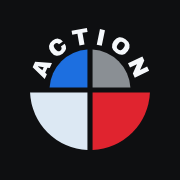
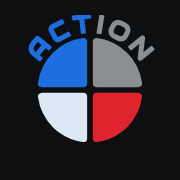
Rundmärket: fyra lika fält med rundade hörn, ACT blått och ION grått
Claude-Session: https://claude.ai/code/session_01STPYKS9MGx6UKJyGrrjUNw

Changed region(s): [[0.1389, 0.0833, 0.8611, 0.8333]]

diff --git a/src/components/brand-paths.ts b/src/components/brand-paths.ts
@@ -1,5 +1,7 @@
 // Genererad av scripts/staging/action_arc.py — ordet ACTION som banor längs en övre båge.
-// RING: runt rundmärkets färgcirkel. BADGE: inuti ett sektionsmärke.
-export const ACTION_ARC_RING = "M23.17 35.32 21.62 35.11 20.09 38.49 21.26 39.51 19.82 42.68 11.77 34.77 13.41 31.17 24.66 32.04ZM18.22 36.86 19.17 34.77 15.28 34.22 15.25 34.27Z M31.91 17.59 29.32 19.56Q28.76 18.83 28.05 18.69Q27.34 18.56 26.63 19.1Q25.81 19.73 25.81 20.54Q25.82 21.35 26.52 22.27L27.12 23.05Q27.81 23.95 28.6 24.18Q29.38 24.41 30.17 23.8Q30.96 23.2 31.05 22.49Q31.15 21.77 30.59 21.04L33.08 19.13Q34.4 20.86 34.05 22.58Q33.69 24.31 31.75 25.79Q29.6 27.44 27.65 27.18Q25.7 26.93 24.05 24.77Q22.41 22.62 22.67 20.67Q22.94 18.72 25.09 17.07Q26.97 15.64 28.77 15.75Q30.58 15.85 31.91 17.59Z M44.96 11.91 46.34 19.67 42.98 20.27 41.61 12.5 38.18 13.11 37.71 10.44 47.9 8.63 48.38 11.3Z M54.5 19.79 56.65 9.41 59.98 10.09 57.84 20.48Z M75.22 23.95Q73.68 26.15 71.65 26.44Q69.63 26.73 67.38 25.16Q65.13 23.59 64.71 21.59Q64.3 19.6 65.84 17.39Q67.39 15.18 69.41 14.89Q71.42 14.6 73.67 16.17Q75.92 17.75 76.34 19.75Q76.76 21.76 75.22 23.95ZM68.98 18.98 68.41 19.79Q67.77 20.71 67.85 21.58Q67.94 22.45 68.84 23.08Q69.73 23.71 70.59 23.49Q71.44 23.28 72.08 22.36L72.65 21.55Q73.3 20.63 73.2 19.76Q73.11 18.88 72.21 18.26Q71.32 17.63 70.47 17.85Q69.62 18.06 68.98 18.98Z M78.57 39.07 81.32 32.84 76.67 35.04 75.33 32.21 84.92 27.69 86.19 30.38 83.36 36.63 88.09 34.4 89.42 37.23 79.84 41.76Z";
+// RING_LEFT/RIGHT: ACT och ION runt rundmärket. BADGE: inuti ett sektionsmärke.
+export const ACTION_ARC_RING_LEFT = "M23.77 21.38 22.45 23.01 20.24 21.22 15.58 26.96 17.79 28.75 16.46 30.39 11.96 26.73Q10.97 25.93 10.42 24.92Q9.86 23.91 9.76 22.82Q9.65 21.73 9.99 20.64Q10.32 19.55 11.11 18.57L14.1 14.89Q14.24 14.72 14.42 14.62Q14.61 14.52 14.81 14.5Q15.02 14.48 15.22 14.54Q15.42 14.6 15.59 14.74ZM13.94 25.63 18.6 19.89 15.07 17.03 12.74 19.9Q12.68 19.97 12.51 20.23Q12.33 20.49 12.16 20.88Q11.99 21.27 11.89 21.77Q11.79 22.27 11.87 22.83Q11.95 23.38 12.27 23.96Q12.6 24.54 13.28 25.1Z M36.69 13.57 30 17.15Q29.74 17.29 29.41 17.38Q29.08 17.48 28.73 17.51Q28.37 17.53 28 17.47Q27.62 17.41 27.27 17.23Q26.91 17.05 26.58 16.73Q26.26 16.41 26 15.94L23.32 10.91Q23.18 10.65 23.09 10.33Q22.99 10 22.96 9.64Q22.94 9.28 23 8.91Q23.07 8.53 23.25 8.18Q23.43 7.82 23.74 7.5Q24.06 7.17 24.53 6.92L31.23 3.34L32.22 5.2L25.52 8.77Q25.16 8.97 25.07 9.26Q24.98 9.56 25.18 9.94L27.86 14.94Q28.05 15.3 28.35 15.39Q28.65 15.48 29.01 15.29L35.7 11.72Z M50.14 1.77 45.53 2.3 46.63 11.73 44.54 11.98 43.44 2.54 38.83 3.08 38.59 0.99 49.89 -0.32Z";
+
+export const ACTION_ARC_RING_RIGHT = "M57.08 12.24 55.01 11.91 56.83 0.46 58.91 0.79Z M74.77 14.19Q74.3 15.13 73.58 15.77Q72.86 16.41 71.99 16.7Q71.12 16.99 70.17 16.92Q69.21 16.85 68.28 16.38L65.73 15.12Q64.79 14.65 64.16 13.94Q63.52 13.22 63.23 12.35Q62.93 11.48 63 10.52Q63.07 9.56 63.54 8.61L64.52 6.63Q64.99 5.68 65.72 5.05Q66.44 4.41 67.31 4.12Q68.18 3.83 69.13 3.9Q70.09 3.97 71.03 4.44L73.58 5.7Q74.51 6.17 75.14 6.89Q75.78 7.61 76.07 8.47Q76.36 9.33 76.29 10.3Q76.22 11.26 75.75 12.2ZM73.87 11.27Q74.15 10.71 74.19 10.17Q74.24 9.63 74.08 9.14Q73.92 8.66 73.55 8.26Q73.19 7.86 72.64 7.59L70.09 6.32Q69.54 6.05 69 6Q68.46 5.95 67.97 6.11Q67.49 6.27 67.09 6.64Q66.68 7 66.41 7.56L65.42 9.55Q65.14 10.11 65.1 10.65Q65.05 11.19 65.22 11.67Q65.38 12.16 65.75 12.56Q66.11 12.96 66.66 13.23L69.2 14.49Q69.75 14.77 70.29 14.81Q70.83 14.86 71.32 14.7Q71.8 14.54 72.21 14.17Q72.61 13.81 72.89 13.25Z M84.11 29.64Q83.93 29.78 83.73 29.84Q83.52 29.9 83.33 29.88Q83.13 29.86 82.94 29.76Q82.76 29.66 82.62 29.49Q82.49 29.34 82.43 29.14Q82.36 28.94 82.39 28.72L83.74 17.69L77.41 22.86L76.08 21.23L84.37 14.46Q84.62 14.26 84.94 14.23Q85.26 14.21 85.54 14.34Q85.82 14.5 85.98 14.78Q86.13 15.06 86.09 15.39L84.74 26.41L91.07 21.24L92.4 22.87Z";
 
 export const ACTION_ARC_BADGE = "M26.57 25.98 25.43 25.43 23.4 27.65 24.04 28.74 22.13 30.82 17.92 22.69 20.1 20.32 28.55 23.83ZM22.37 25.92 23.63 24.55 20.76 23.14 20.73 23.18Z M36.32 13.69 33.97 14.89Q33.63 14.22 33.08 14.01Q32.53 13.8 31.88 14.13Q31.14 14.51 31.02 15.16Q30.91 15.8 31.34 16.64L31.7 17.35Q32.12 18.17 32.71 18.47Q33.3 18.76 34.03 18.39Q34.74 18.03 34.92 17.48Q35.1 16.92 34.76 16.25L37.03 15.09Q37.83 16.66 37.29 17.99Q36.76 19.32 35 20.21Q33.04 21.21 31.52 20.73Q30 20.24 29 18.28Q28 16.32 28.5 14.8Q29 13.28 30.96 12.29Q32.66 11.42 34.08 11.76Q35.51 12.11 36.32 13.69Z M46.34 10.24 47.14 16.59 44.4 16.94 43.6 10.59 40.8 10.95 40.52 8.76 48.85 7.71 49.13 9.89Z M53.54 16.66 54.8 8.15 57.53 8.56 56.27 17.06Z M70.32 17.79Q69.4 19.76 67.81 20.27Q66.23 20.78 64.22 19.83Q62.21 18.88 61.6 17.35Q60.99 15.81 61.92 13.83Q62.86 11.85 64.43 11.34Q66 10.83 68.02 11.78Q70.03 12.73 70.64 14.28Q71.25 15.82 70.32 17.79ZM64.65 14.67 64.31 15.4Q63.92 16.22 64.11 16.91Q64.3 17.59 65.1 17.97Q65.9 18.35 66.56 18.06Q67.21 17.77 67.6 16.95L67.94 16.23Q68.33 15.4 68.13 14.71Q67.94 14.03 67.14 13.65Q66.33 13.27 65.69 13.56Q65.04 13.85 64.65 14.67Z M75.71 28.44 76.28 22.95 73.24 25.8 71.5 23.95 77.77 18.07 79.42 19.83 78.8 25.36 81.89 22.46 83.63 24.31 77.36 30.2Z";

diff --git a/src/components/Logo.tsx b/src/components/Logo.tsx
@@ -1,14 +1,14 @@
 import type { SectionId } from '@/lib/sections';
-import { ACTION_ARC_BADGE, ACTION_ARC_RING } from './brand-paths';
+import { ACTION_ARC_BADGE, ACTION_ARC_RING_LEFT, ACTION_ARC_RING_RIGHT } from './brand-paths';
 import { MIND_HEAD, WATER_RIDER, WATER_WAVE } from './brand-traced';
 
 /**
  * ELEMENTACTIONS MÄRKEN — ritade efter Martins egna utkast.
  *
- * Huvudmärket (efter Martins utkast): en cirkel delad i fyra färgfält
- * (vatten blått, betong grått, snö isvitt, mind rött) med en glipa
- * emellan. De övre fälten är mindre, och ordet ACTION ligger i bågen
- * ovanför dem. Ordet "Element" står aldrig i märket.
+ * Huvudmärket (efter Martins utkast): en cirkel delad i fyra lika stora
+ * färgfält med rundade hörn (vatten blått, betong grått, snö isvitt, mind
+ * rött) och ordet ACTION i bågen ovanför — ACT blått, ION grått.
+ * Ordet "Element" står aldrig i märket.
  *
  * Sektionsmärkena: en rund bricka i sektionens färg, ACTION överst och
  * ett motiv i mitten. Water och Mind är spårade från Martins utkast; samma
@@ -154,41 +154,48 @@ export function SectionMark({ section, size = 32, className, title, detail }: Ma
   );
 }
 
-// Efter Martins utkast: de nedre fälten har full radie, de övre är mindre
-// så att ACTION får plats i bågen ovanför dem.
-const R_LOW = 40;
-const R_TOP = 27;
-const GAP = 1.7; // halva glipan mellan fälten
+// Efter Martins utkast: fyra lika stora fält med rundade hörn och en glipa
+// emellan. Rundningen görs genom att rita ett något mindre fält med en
+// kantlinje i samma färg och rundade hörn (strokeLinejoin round).
+const R = 35; // fältens ytterradie
+const GAP = 1.9; // halva glipan mellan fälten
+const RC = 2.6; // hörnens rundning
 const f = (n: number) => n.toFixed(2);
 
-/** Ett kvartsfält med glipa. sx/sy = riktning (−1 vänster/upp, +1 höger/ned). */
+/** Ett kvartsfält (insatt med RC). sx/sy = riktning (−1 vänster/upp, +1 höger/ned). */
 function quadrant(sx: number, sy: number) {
-  const R = sy < 0 ? R_TOP : R_LOW;
-  const E = Math.sqrt(R * R - GAP * GAP);
-  const x0 = 50 + sx * GAP;
-  const y0 = 50 + sy * GAP;
+  const g = GAP + RC;
+  const r = R - RC;
+  const E = Math.sqrt(r * r - g * g);
+  const x0 = 50 + sx * g;
+  const y0 = 50 + sy * g;
   const sweep = sx * sy < 0 ? 1 : 0;
-  return `M${f(x0)} ${f(y0)}V${f(50 + sy * E)}A${R} ${R} 0 0 ${sweep} ${f(50 + sx * E)} ${f(y0)}z`;
+  return `M${f(x0)} ${f(y0)}V${f(50 + sy * E)}A${r} ${r} 0 0 ${sweep} ${f(50 + sx * E)} ${f(y0)}z`;
 }
 
+const BLUE = '#1d6fe0';
+const GREY = '#8a8f94';
 const QUADRANTS: [string, string][] = [
-  ['#1d6fe0', quadrant(-1, -1)], // uppe vänster: vatten
-  ['#8a8f94', quadrant(1, -1)], // uppe höger: betong
+  [BLUE, quadrant(-1, -1)], // uppe vänster: vatten
+  [GREY, quadrant(1, -1)], // uppe höger: betong
   ['#dce8f3', quadrant(-1, 1)], // nere vänster: snö
   ['#e0242f', quadrant(1, 1)] // nere höger: mind
 ];
 
 /**
- * Huvudmärket. `text` är färgen på ACTION — vit på mörk bakgrund (standard),
- * mörk på ljus. Glipan mellan fälten är genomskinlig, så bakgrunden syns.
+ * Huvudmärket: fyra lika fält och ACTION i bågen ovanför — ACT i blått
+ * över det blå fältet, ION i grått över det grå. Fungerar på både mörk
+ * och ljus bakgrund; glipan är genomskinlig.
  */
-export function LogoMark({ size = 40, className, title = 'Elementaction', text = WHITE }: MarkProps & { text?: string }) {
+export function LogoMark({ size = 40, className, title = 'Elementaction' }: MarkProps) {
   return (
     <svg width={size} height={size} viewBox="0 0 100 100" className={className} role="img" aria-label={title}>
       {QUADRANTS.map(([fill, d]) => (
-        <path key={fill} d={d} fill={fill} />
+        <path key={fill} d={d} fill={fill} stroke={fill} strokeWidth={RC * 2} strokeLinejoin="round" />
       ))}
-      <path d={ACTION_ARC_RING} fill={text} />
+      {/* kantlinjen i samma färg gör Audiowide lika fet som i utkastet */}
+      <path d={ACTION_ARC_RING_LEFT} fill={BLUE} stroke={BLUE} strokeWidth="1.3" strokeLinejoin="round" />
+      <path d={ACTION_ARC_RING_RIGHT} fill={GREY} stroke={GREY} strokeWidth="1.3" strokeLinejoin="round" />
     </svg>
   );
 }

diff --git a/scripts/staging/render_marks.tsx b/scripts/staging/render_marks.tsx
@@ -6,7 +6,6 @@ const secs = ['surfing', 'skateboard', 'snowboard', 'inspiration'] as const;
 const names = { surfing: 'water', skateboard: 'concrete', snowboard: 'snow', inspiration: 'mind' } as const;
 const x = (s: string) => s.replace('<svg ', '<svg xmlns="http://www.w3.org/2000/svg" ') + '\n';
 writeFileSync('public/brand/mark.svg', x(renderToStaticMarkup(<LogoMark size={512} />)));
-writeFileSync('public/brand/mark-on-light.svg', x(renderToStaticMarkup(<LogoMark size={512} text="#16181b" />)));
 writeFileSync('public/brand/icon.svg', x(renderToStaticMarkup(<LogoMark size={512} />)));
 for (const s of secs) {
   writeFileSync(`public/brand/mark-${names[s]}.svg`, x(renderToStaticMarkup(<SectionMark section={s} size={512} title={`${names[s]} action`} />)));
@@ -14,7 +13,7 @@ for (const s of secs) {
 }
 writeFileSync(process.argv[2]!, `<html><body style="margin:0;background:#20242b;padding:24px">
 <div style="display:flex;gap:24px;align-items:center">${renderToStaticMarkup(<LogoMark size={230} />)}
-<div style="background:#f3f5f7;padding:10px;border-radius:12px">${renderToStaticMarkup(<LogoMark size={120} text="#16181b" />)}</div></div>
+<div style="background:#f3f5f7;padding:10px;border-radius:12px">${renderToStaticMarkup(<LogoMark size={120} />)}</div></div>
 <div style="display:flex;gap:20px;margin-top:20px">${secs.map((s) => renderToStaticMarkup(<SectionMark section={s} size={230} />)).join('')}</div>
 <div style="display:flex;gap:14px;margin-top:20px;align-items:center">${secs.map((s) => renderToStaticMarkup(<SectionMark section={s} size={22} />)).join('')}
 ${renderToStaticMarkup(<LogoMark size={40} />)} ${renderToStaticMarkup(<LogoMark size={20} />)}</div>

diff --git a/scripts/staging/action_arc.py b/scripts/staging/action_arc.py
@@ -11,7 +11,7 @@ font = TTFont('node_modules/@fontsource/archivo-black/files/archivo-black-latin-
 gs = font.getGlyphSet(); cmap = font.getBestCmap()
 CAP = font['OS/2'].sCapHeight
 
-def arc(text, r, cap_h, track, cx=50, cy=50):
+def arc(text, r, cap_h, track, cx=50, cy=50, gs=gs, cmap=cmap, CAP=CAP, split=False):
     s = cap_h / CAP
     widths = [gs[cmap[ord(c)]].width * s for c in text]
     total = sum(widths) + track * (len(text) - 1)
@@ -26,14 +26,24 @@ def arc(text, r, cap_h, track, cx=50, cy=50):
         gs[cmap[ord(c)]].draw(t)
         out.append(pen.getCommands())
         a += (w + track) / r
+    rnd = lambda d: re.sub(r'-?\d+\.\d+', lambda m: ('%.2f' % float(m.group())).rstrip('0').rstrip('.'), d)
+    if split:
+        h = len(out) // 2
+        return rnd(' '.join(out[:h])), rnd(' '.join(out[h:]))
     d = ' '.join(out)
     return re.sub(r'-?\d+\.\d+', lambda m: ('%.2f' % float(m.group())).rstrip('0').rstrip('.'), d)
 
-ring = arc("ACTION", 30.5, 10.6, 3.0)
+# Rundmärkets text i Audiowide (rundat, likt Martins utkast), delad i två
+# halvor: ACT (blå, över det blå fältet) och ION (grå, över det grå).
+aw = TTFont('node_modules/@fontsource/audiowide/files/audiowide-latin-400-normal.woff')
+aw_gs = aw.getGlyphSet(); aw_cmap = aw.getBestCmap()
+aw_cap = aw['OS/2'].sCapHeight or 0.7 * aw['head'].unitsPerEm
+ring_left, ring_right = arc('ACTION', 38.4, 11.6, 2.2, gs=aw_gs, cmap=aw_cmap, CAP=aw_cap, split=True)
 badge = arc('ACTION', 33.5, 8.6, 2.2)
 open('src/components/brand-paths.ts', 'w').write(
     '// Genererad av scripts/staging/action_arc.py — ordet ACTION som banor längs en övre båge.\n'
-    '// RING: runt rundmärkets färgcirkel. BADGE: inuti ett sektionsmärke.\n'
-    f'export const ACTION_ARC_RING = "{ring}";\n\n'
+    '// RING_LEFT/RIGHT: ACT och ION runt rundmärket. BADGE: inuti ett sektionsmärke.\n'
+    f'export const ACTION_ARC_RING_LEFT = "{ring_left}";\n\n'
+    f'export const ACTION_ARC_RING_RIGHT = "{ring_right}";\n\n'
     f'export const ACTION_ARC_BADGE = "{badge}";\n')
 print('ok')

diff --git a/README.md b/README.md
@@ -9,7 +9,7 @@
 | Snowboard | Snow action (åkare under bergstopp) | vit | Space Grotesk | berg i lager med fallande snö |
 | Inspiration | Mind action (huvud med spiral, Martins utkast) | röd på titan | Syne | böjda titanvolymer, som Guggenheim i Bilbao |
 
-Huvudmärket är en cirkel delad i de fyra sektionsfärgerna med ACTION längs övre bågen. Sektionsmärkena är runda brickor med ACTION överst och ett motiv; i menyn används förenklade varianter utan text. Namnet skrivs alltid
+Huvudmärket är en cirkel delad i fyra lika stora fält i sektionsfärgerna, med rundade hörn, och ACTION i bågen ovanför (ACT blått, ION grått, typsnitt Audiowide). Sektionsmärkena är runda brickor med ACTION överst och ett motiv; i menyn används förenklade varianter utan text. Namnet skrivs alltid
 som ett ord, **Elementaction**. Märkena finns som SVG i `public/brand/`
 (`mark.svg`, `mark-water.svg`, `mark-concrete.svg`, `mark-snow.svg`, `mark-mind.svg`).
 
